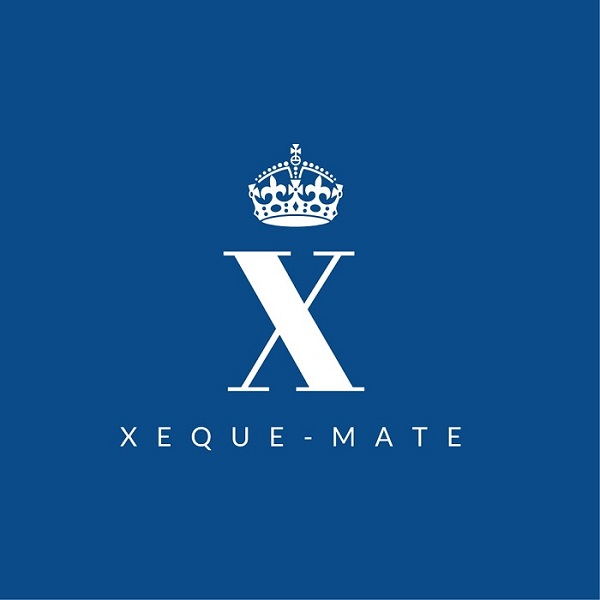
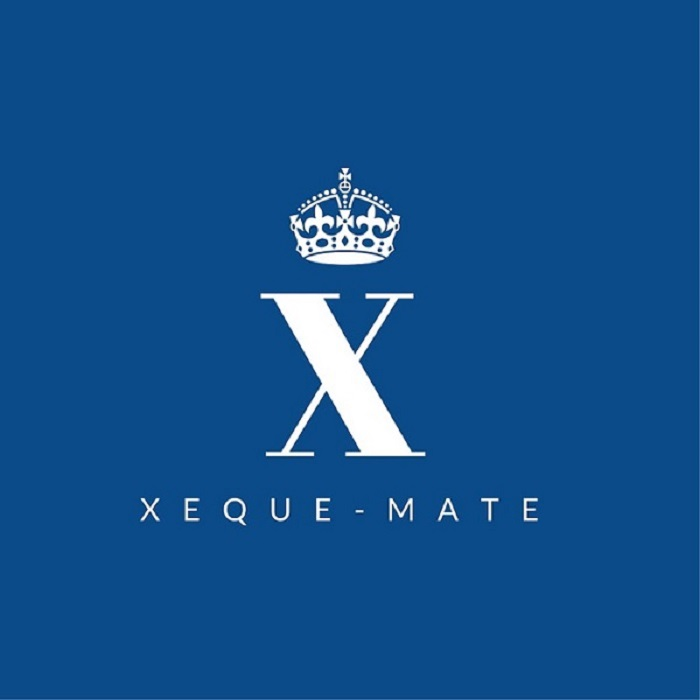
COMMIT 4

diff --git a/src/swing/TelaPrincipal.java b/src/swing/TelaPrincipal.java
@@ -36,6 +36,7 @@ public class TelaPrincipal extends javax.swing.JFrame {
     private void initComponents() {
 
         desktopPanePrincipal = new javax.swing.JDesktopPane();
+        jLabel1 = new javax.swing.JLabel();
         jMenuBarPrincipal = new javax.swing.JMenuBar();
         menuArquivo = new javax.swing.JMenu();
         itemMenuImprimir = new javax.swing.JMenuItem();
@@ -67,7 +68,32 @@ public class TelaPrincipal extends javax.swing.JFrame {
         desktopPanePrincipal.setPreferredSize(new java.awt.Dimension(760, 550));
         desktopPanePrincipal.setRequestFocusEnabled(false);
         desktopPanePrincipal.setVerifyInputWhenFocusTarget(false);
+
+        jLabel1.setIcon(new javax.swing.ImageIcon(getClass().getResource("/images/Xeque-Mate-1.jpg"))); // NOI18N
+        desktopPanePrincipal.add(jLabel1);
+        jLabel1.setBounds(0, 0, 850, 700);
+
         getContentPane().add(desktopPanePrincipal, java.awt.BorderLayout.CENTER);
+
+        jMenuBarPrincipal.addHierarchyListener(new java.awt.event.HierarchyListener() {
+            public void hierarchyChanged(java.awt.event.HierarchyEvent evt) {
+                jMenuBarPrincipalHierarchyChanged(evt);
+            }
+        });
+        jMenuBarPrincipal.addAncestorListener(new javax.swing.event.AncestorListener() {
+            public void ancestorMoved(javax.swing.event.AncestorEvent evt) {
+            }
+            public void ancestorAdded(javax.swing.event.AncestorEvent evt) {
+                jMenuBarPrincipalAncestorAdded(evt);
+            }
+            public void ancestorRemoved(javax.swing.event.AncestorEvent evt) {
+            }
+        });
+        jMenuBarPrincipal.addFocusListener(new java.awt.event.FocusAdapter() {
+            public void focusLost(java.awt.event.FocusEvent evt) {
+                jMenuBarPrincipalFocusLost(evt);
+            }
+        });
 
         menuArquivo.setIcon(new javax.swing.ImageIcon(getClass().getResource("/icons/folder.png"))); // NOI18N
         menuArquivo.setText("Arquivo");
@@ -328,6 +354,18 @@ public class TelaPrincipal extends javax.swing.JFrame {
 
     }//GEN-LAST:event_itemMenuImprimirActionPerformed
 
+    private void jMenuBarPrincipalAncestorAdded(javax.swing.event.AncestorEvent evt) {//GEN-FIRST:event_jMenuBarPrincipalAncestorAdded
+        // TODO add your handling code here:
+    }//GEN-LAST:event_jMenuBarPrincipalAncestorAdded
+
+    private void jMenuBarPrincipalHierarchyChanged(java.awt.event.HierarchyEvent evt) {//GEN-FIRST:event_jMenuBarPrincipalHierarchyChanged
+        // TODO add your handling code here:
+    }//GEN-LAST:event_jMenuBarPrincipalHierarchyChanged
+
+    private void jMenuBarPrincipalFocusLost(java.awt.event.FocusEvent evt) {//GEN-FIRST:event_jMenuBarPrincipalFocusLost
+        // TODO add your handling code here:
+    }//GEN-LAST:event_jMenuBarPrincipalFocusLost
+
     public void moveToFront(JInternalFrame jif) {
         desktopPanePrincipal.moveToFront(jif);
     }
@@ -386,6 +424,7 @@ public class TelaPrincipal extends javax.swing.JFrame {
     private javax.swing.JMenuItem itemMenuNovoEmprestimo;
     private javax.swing.JMenuItem itemMenuSair;
     private javax.swing.JMenuItem itemMenuSobre;
+    private javax.swing.JLabel jLabel1;
     private javax.swing.JMenuBar jMenuBarPrincipal;
     private javax.swing.JMenu menuAjuda;
     private javax.swing.JMenu menuArquivo;
